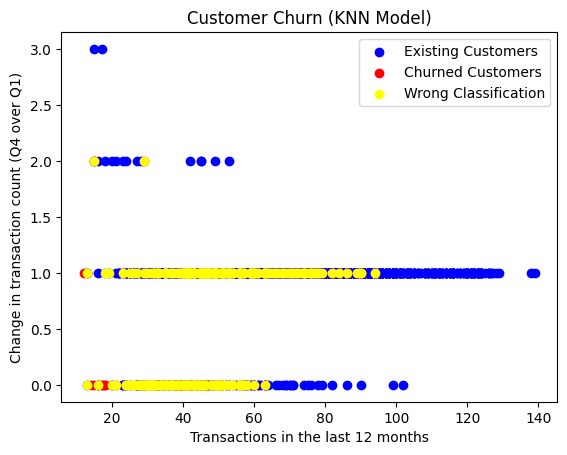
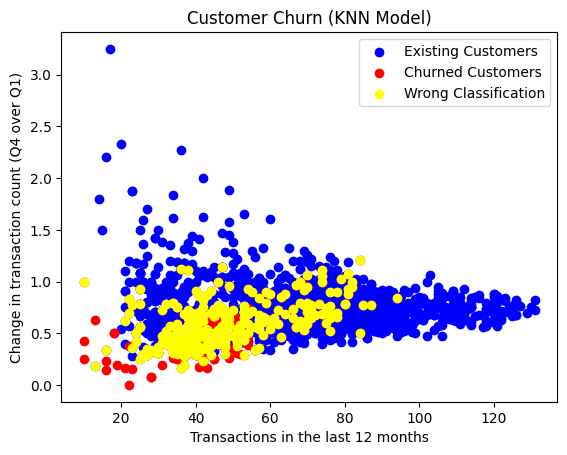
ML issue work-around

diff --git a/utils/ml_utils.py b/utils/ml_utils.py
@@ -11,10 +11,20 @@ import matplotlib
 matplotlib.use('Agg')
 import matplotlib.pyplot as plt
 
-from df_utils import set_up
-from dashboard_utils import remove_file, make_corr_dict
+from utils.df_utils import set_up
+from utils.dashboard_utils import remove_file, make_corr_dict
+# from df_utils import set_up
+# from dashboard_utils import remove_file, make_corr_dict
 
-def logistic_regression(df):
+def make_df():
+    df = pd.read_csv("utils/bank_churners_data.csv")
+    df = df.drop(columns='Naive_Bayes_Classifier_Attrition_Flag_Card_Category_Contacts_Count_12_mon_Dependent_count_Education_Level_Months_Inactive_12_mon_1')
+    df = df.drop(columns='Naive_Bayes_Classifier_Attrition_Flag_Card_Category_Contacts_Count_12_mon_Dependent_count_Education_Level_Months_Inactive_12_mon_2')
+    df = set_up(df)
+    return df
+
+def logistic_regression():
+    df = make_df()
     correlation_dict = make_corr_dict(df)
 
     scaler = StandardScaler()
@@ -59,7 +69,10 @@ def logistic_regression(df):
     plt.savefig(save_path, bbox_inches='tight')
     plt.close()
 
-def random_forest(df):
+    return {"accuracy": accuracy, "f1": f1, "precision": precision, "recall": recall}
+
+def random_forest():
+    df = make_df()
     correlation_dict = make_corr_dict(df)
     # Scale the features
     scaler = StandardScaler()
@@ -96,9 +109,15 @@ def random_forest(df):
     remove_file(save_path)
     plt.savefig(save_path, bbox_inches='tight')
     plt.close()
+    
+    return {"accuracy": accuracy, "f1": f1, "precision": precision, "recall": recall}
 
-def knn_classifier(df):
+def knn_classifier():
+    df = make_df()
+    # df['Total_Trans_Ct'] = df['Total_Trans_Ct'].astype('float64')
+    # print(df[['Total_Trans_Ct', 'Total_Ct_Chng_Q4_Q1']].dtypes)
     scaler = StandardScaler()
+    
     x = scaler.fit_transform(df[['Total_Trans_Ct', 'Total_Ct_Chng_Q4_Q1']])
     y = df['Attrition_Flag']
     x_train, x_test, y_train, y_test = train_test_split(x, y, test_size=0.2, random_state=42)
@@ -121,7 +140,7 @@ def knn_classifier(df):
 
     plt.scatter(df['Total_Trans_Ct'][y_test.index][y_test==0],df['Total_Ct_Chng_Q4_Q1'][y_test.index][y_test==0], label = 'Existing Customers', color = 'blue')
     plt.scatter(df['Total_Trans_Ct'][y_test.index][y_test==1],df['Total_Ct_Chng_Q4_Q1'][y_test.index][y_test==1], label = 'Churned Customers', color = 'red')
-    plt.scatter(df['Total_Trans_Ct'][y_test.index][y_test!=y_pred],df['Total_Ct_Chng_Q4_Q1'][y_test.index][y_test!=y_pred],  label = 'Wrong Classification', color = 'yellow')
+    plt.scatter(df['Total_Trans_Ct'][y_test.index][y_test!=y_pred],df['Total_Ct_Chng_Q4_Q1'][y_test.index][y_test!=y_pred], label = 'Wrong Classification', color = 'yellow')
     plt.xlabel("Transactions in the last 12 months")
     plt.ylabel("Change in transaction count (Q4 over Q1)")
     plt.title('Customer Churn (KNN Model)')
@@ -132,9 +151,9 @@ def knn_classifier(df):
     plt.savefig(save_path, bbox_inches='tight')
     plt.close()
 
+    return {"accuracy": accuracy, "f1": f1, "precision": precision, "recall": recall}
+
 if __name__ == '__main__':
-    df = pd.read_csv("bank_churners_data.csv")
-    mapped_df = set_up(df)
-    logistic_regression(mapped_df)
-    # random_forest(mapped_df)
-    # knn_classifier(mapped_df)
+    logistic_regression()
+    random_forest()
+    knn_classifier()

diff --git a/app.py b/app.py
@@ -21,7 +21,7 @@ df = create_df_from_db(app.config['CONNECTION_STRING'])
 
 mapped_df = set_up(df)
 
-csv_file_path = 'utils/bank_churners_data.csv'
+csv_file_path = 'bank_churners_data.csv'
 create_csv(df, csv_file_path)
 
 
@@ -76,9 +76,9 @@ def dashboard():
 
 @app.route("/churn")
 def churn():
-    log = logistic_regression(mapped_df)
-    forest = random_forest(mapped_df)
-    knn = knn_classifier(mapped_df)
+    log = logistic_regression()
+    forest = random_forest()
+    knn = knn_classifier()
     return render_template('churn.html', log=log, forest=forest, knn=knn)
 
 
